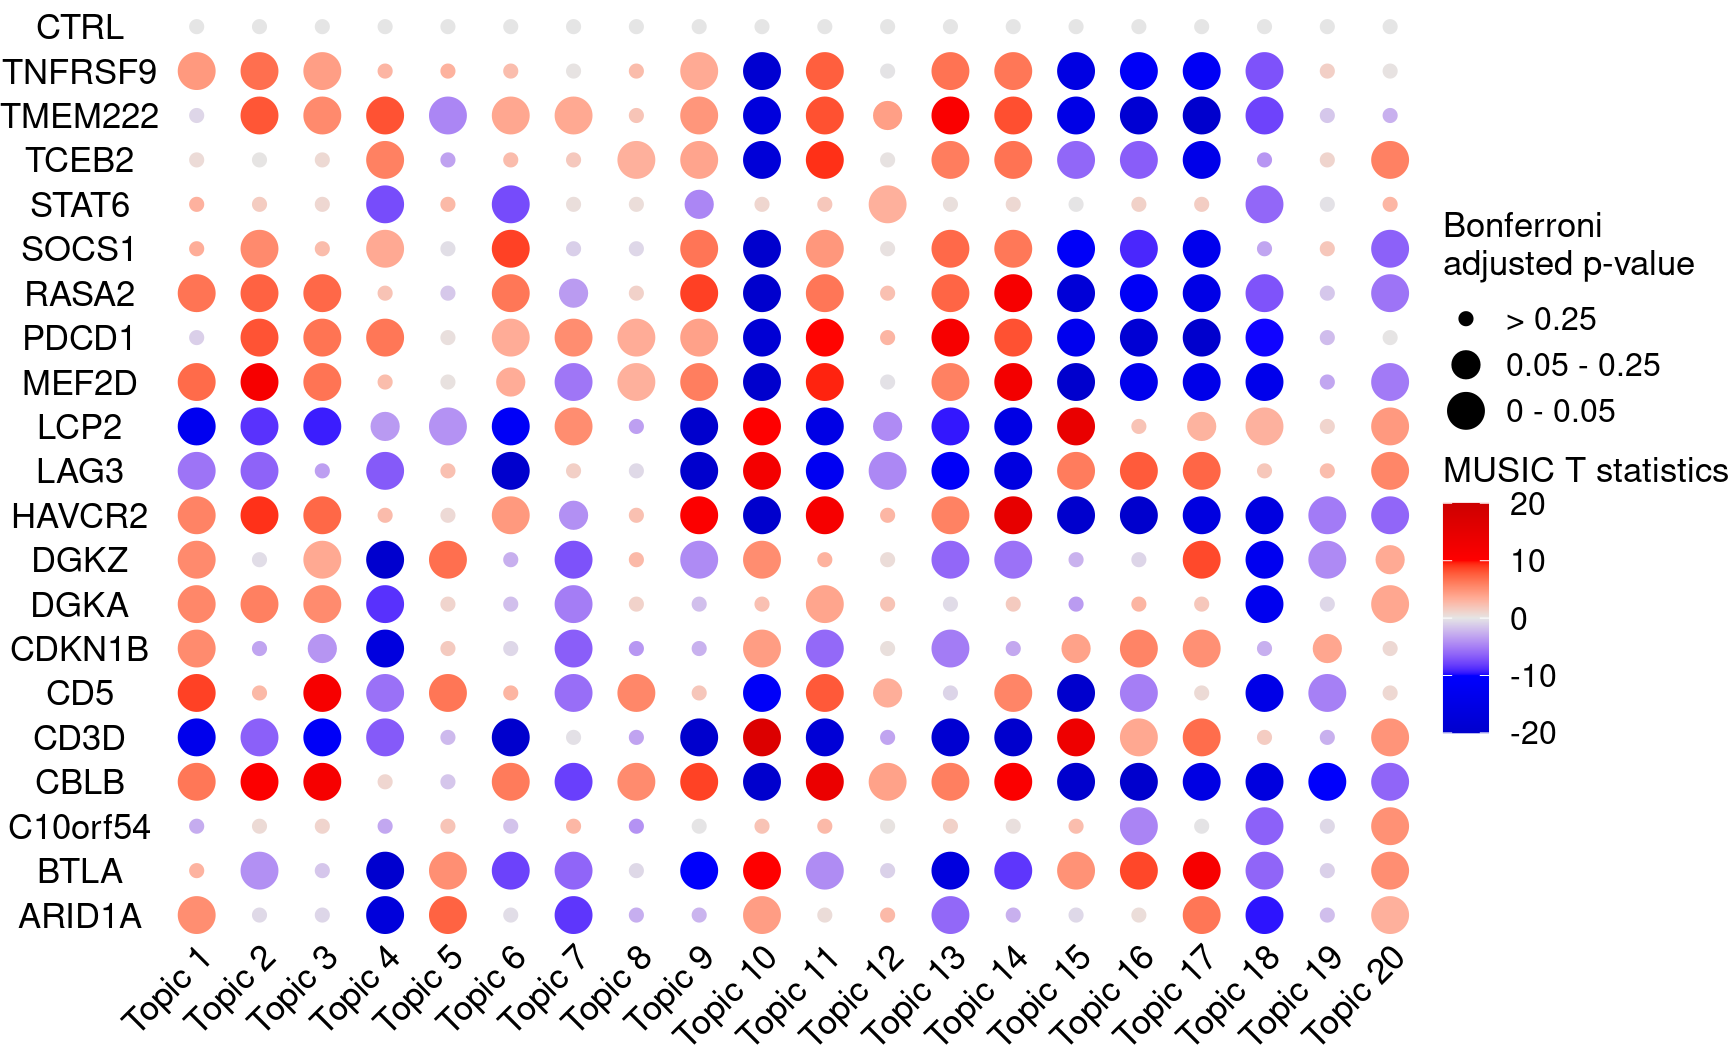
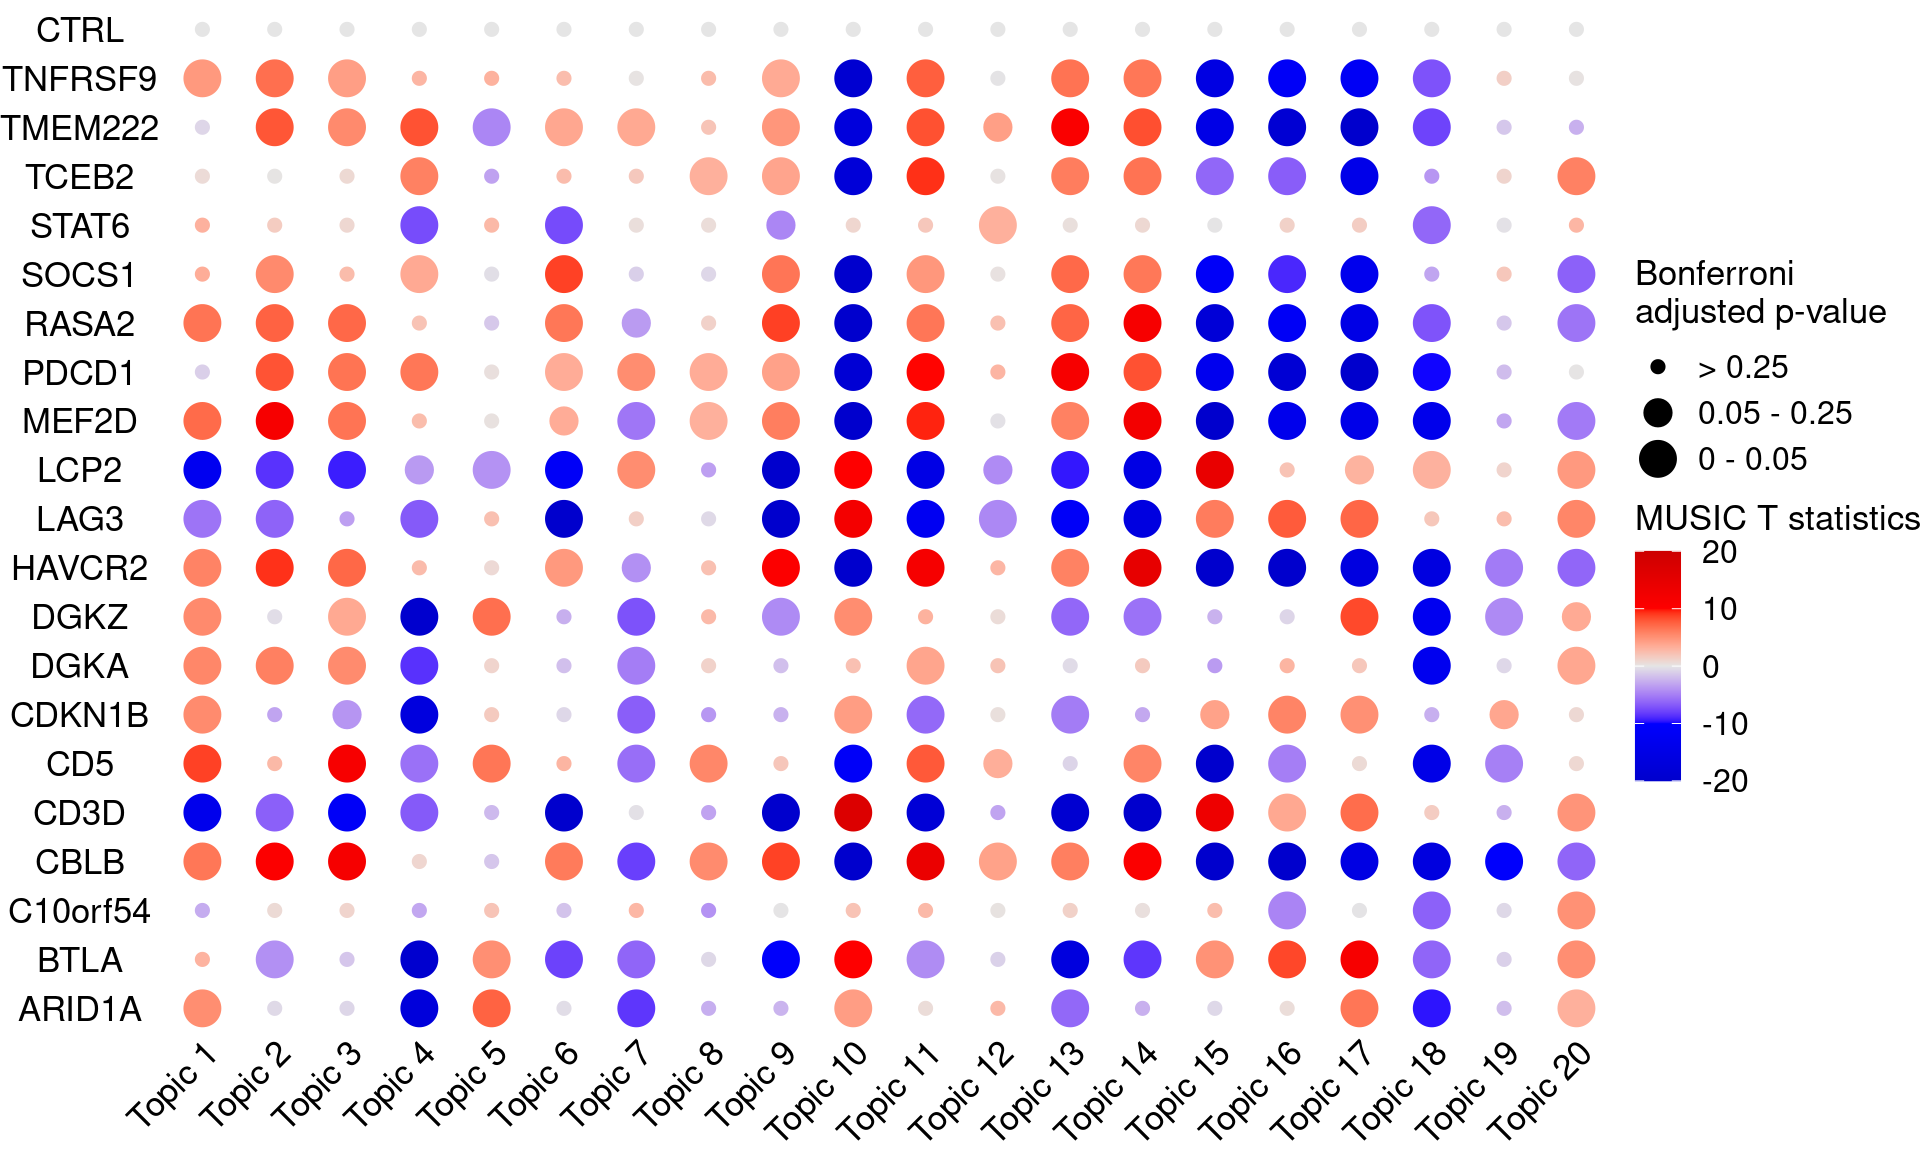
Build site.

Changed region(s): [[0.0, 0.0, 1.0, 1.0], [0.7812, 0.0, 0.8125, 0.0312]]

diff --git a/docs/music_TCells_data.html b/docs/music_TCells_data.html
@@ -529,15 +529,15 @@ project makes it easier to run your code on other machines.</p>
 <div class="panel panel-default">
 <div class="panel-heading">
 <p class="panel-title">
-<a data-toggle="collapse" data-parent="#workflowr-checks" href="#strongRepositoryversionstrongahrefhttpsgithubcomkevinlkxGSFAanalysistree6e34d2c1e76882c70497f5d0b2c86ef021b215datargetblank6e34d2ca">
+<a data-toggle="collapse" data-parent="#workflowr-checks" href="#strongRepositoryversionstrongahrefhttpsgithubcomkevinlkxGSFAanalysistree4a35fbea64af9a29df13d961f40742fe09a171e2targetblank4a35fbea">
 <span class="glyphicon glyphicon-ok text-success"
 aria-hidden="true"></span> <strong>Repository version:</strong>
-<a href="https://github.com/kevinlkx/GSFA-analysis/tree/6e34d2c1e76882c70497f5d0b2c86ef021b215da" target="_blank">6e34d2c</a>
+<a href="https://github.com/kevinlkx/GSFA-analysis/tree/4a35fbea64af9a29df13d961f40742fe09a171e2" target="_blank">4a35fbe</a>
 </a>
 </p>
 </div>
 <div
[2 lines of base64/hex data omitted]
 class="panel-collapse collapse">
 <div class="panel-body">
 <p>
@@ -547,7 +547,7 @@ reproducibility.
 </p>
 <p>
 The results in this page were generated with repository version
-<a href="https://github.com/kevinlkx/GSFA-analysis/tree/6e34d2c1e76882c70497f5d0b2c86ef021b215da" target="_blank">6e34d2c</a>.
+<a href="https://github.com/kevinlkx/GSFA-analysis/tree/4a35fbea64af9a29df13d961f40742fe09a171e2" target="_blank">4a35fbe</a>.
 See the <em>Past versions</em> tab to see a history of the changes made
 to the R Markdown and HTML files.
 </p>
@@ -562,6 +562,7 @@ were generated:
 </p>
 <pre><code>
 Ignored files:
+    Ignored:    .DS_Store
     Ignored:    .Rhistory
     Ignored:    .Rproj.user/
 
@@ -603,6 +604,7 @@ Untracked files:
     Untracked:  code/unguided_GFSA_mixture_normal_prior.cpp
 
 Unstaged changes:
+    Modified:   analysis/music_LUHMES_data.Rmd
     Modified:   analysis/sceptre_TCells_data.Rmd
     Modified:   analysis/twostep_clustering_LUHMES_data.Rmd
     Modified:   code/run_sceptre_LUHMES_data.R
@@ -657,6 +659,40 @@ Message
 </tr>
 </thead>
 <tbody>
+<tr>
+<td>
+Rmd
+</td>
+<td>
+<a href="https://github.com/kevinlkx/GSFA-analysis/blob/4a35fbea64af9a29df13d961f40742fe09a171e2/analysis/music_TCells_data.Rmd" target="_blank">4a35fbe</a>
+</td>
+<td>
+kevinlkx
+</td>
+<td>
+2022-09-20
+</td>
+<td>
+updated dot plots
+</td>
+</tr>
+<tr>
+<td>
+html
+</td>
+<td>
+<a href="https://rawcdn.githack.com/kevinlkx/GSFA-analysis/b9fac2bf483010fdc8d5b287545f6b13ec1a7f3d/docs/music_TCells_data.html" target="_blank">b9fac2b</a>
+</td>
+<td>
+kevinlkx
+</td>
+<td>
+2022-09-20
+</td>
+<td>
+Build site.
+</td>
+</tr>
 <tr>
 <td>
 Rmd
@@ -1365,6 +1401,17 @@ Date
 <tbody>
 <tr>
 <td>
+<a href="https://github.com/kevinlkx/GSFA-analysis/blob/b9fac2bf483010fdc8d5b287545f6b13ec1a7f3d/docs/figure/music_TCells_data.Rmd/empirical_tstats_heatmap_20topics-1.png" target="_blank">b9fac2b</a>
+</td>
+<td>
+kevinlkx
+</td>
+<td>
+2022-09-20
+</td>
+</tr>
+<tr>
+<td>
 <a href="https://github.com/kevinlkx/GSFA-analysis/blob/7102e1bf578a02d3c47a497ff9269f864ce470e1/docs/figure/music_TCells_data.Rmd/empirical_tstats_heatmap_20topics-1.png" target="_blank">7102e1b</a>
 </td>
 <td>
@@ -1391,7 +1438,7 @@ dotplot_effectsize(t(effect_mat), t(fdr_mat),
                    by_score = 10) + 
   coord_flip() +
   theme(axis.text.x = element_text(angle = 45, vjust = 1))</code></pre>
-<p><img src="figure/music_TCells_data.Rmd/effect_fdr_dotplot_20topics-1.png" width="864" style="display: block; margin: auto;" /></p>
+<p><img src="figure/music_TCells_data.Rmd/effect_fdr_dotplot_20topics-1.png" width="960" style="display: block; margin: auto;" /></p>
 <p>
 <button type="button" class="btn btn-default btn-xs btn-workflowr btn-workflowr-fig" data-toggle="collapse" data-target="#fig-effect_fdr_dotplot_20topics-1">
 Past versions of effect_fdr_dotplot_20topics-1.png
@@ -1414,6 +1461,17 @@ Date
 </tr>
 </thead>
 <tbody>
+<tr>
+<td>
+<a href="https://github.com/kevinlkx/GSFA-analysis/blob/b9fac2bf483010fdc8d5b287545f6b13ec1a7f3d/docs/figure/music_TCells_data.Rmd/effect_fdr_dotplot_20topics-1.png" target="_blank">b9fac2b</a>
+</td>
+<td>
+kevinlkx
+</td>
+<td>
+2022-09-20
+</td>
+</tr>
 <tr>
 <td>
 <a href="https://github.com/kevinlkx/GSFA-analysis/blob/b1684a97ed07a1eb422a09c038fa797bb9c60200/docs/figure/music_TCells_data.Rmd/effect_fdr_dotplot_20topics-1.png" target="_blank">b1684a9</a>
@@ -1462,7 +1520,7 @@ dotplot_effectsize(t(effect_mat), t(bonferroni_mat),
                    by_score = 10) + 
   coord_flip() +
   theme(axis.text.x = element_text(angle = 45, vjust = 1, hjust = 1))</code></pre>
-<p><img src="figure/music_TCells_data.Rmd/effect_bonferroni_dotplot_20topics-1.png" width="864" style="display: block; margin: auto;" /></p>
+<p><img src="figure/music_TCells_data.Rmd/effect_bonferroni_dotplot_20topics-1.png" width="960" style="display: block; margin: auto;" /></p>
 <p>
 <button type="button" class="btn btn-default btn-xs btn-workflowr btn-workflowr-fig" data-toggle="collapse" data-target="#fig-effect_bonferroni_dotplot_20topics-1">
 Past versions of effect_bonferroni_dotplot_20topics-1.png
@@ -1485,6 +1543,17 @@ Date
 </tr>
 </thead>
 <tbody>
+<tr>
+<td>
+<a href="https://github.com/kevinlkx/GSFA-analysis/blob/b9fac2bf483010fdc8d5b287545f6b13ec1a7f3d/docs/figure/music_TCells_data.Rmd/effect_bonferroni_dotplot_20topics-1.png" target="_blank">b9fac2b</a>
+</td>
+<td>
+kevinlkx
+</td>
+<td>
+2022-09-20
+</td>
+</tr>
 <tr>
 <td>
 <a href="https://github.com/kevinlkx/GSFA-analysis/blob/b1684a97ed07a1eb422a09c038fa797bb9c60200/docs/figure/music_TCells_data.Rmd/effect_bonferroni_dotplot_20topics-1.png" target="_blank">b1684a9</a>
@@ -1730,6 +1799,17 @@ Date
 <tbody>
 <tr>
 <td>
+<a href="https://github.com/kevinlkx/GSFA-analysis/blob/b9fac2bf483010fdc8d5b287545f6b13ec1a7f3d/docs/figure/music_TCells_data.Rmd/empirical_tstats_heatmap_4topics-1.png" target="_blank">b9fac2b</a>
+</td>
+<td>
+kevinlkx
+</td>
+<td>
+2022-09-20
+</td>
+</tr>
+<tr>
+<td>
 <a href="https://github.com/kevinlkx/GSFA-analysis/blob/7102e1bf578a02d3c47a497ff9269f864ce470e1/docs/figure/music_TCells_data.Rmd/empirical_tstats_heatmap_4topics-1.png" target="_blank">7102e1b</a>
 </td>
 <td>
@@ -1779,6 +1859,17 @@ Date
 </tr>
 </thead>
 <tbody>
+<tr>
+<td>
+<a href="https://github.com/kevinlkx/GSFA-analysis/blob/b9fac2bf483010fdc8d5b287545f6b13ec1a7f3d/docs/figure/music_TCells_data.Rmd/effect_fdr_dotplot_4topics-1.png" target="_blank">b9fac2b</a>
+</td>
+<td>
+kevinlkx
+</td>
+<td>
+2022-09-20
+</td>
+</tr>
 <tr>
 <td>
 <a href="https://github.com/kevinlkx/GSFA-analysis/blob/b1684a97ed07a1eb422a09c038fa797bb9c60200/docs/figure/music_TCells_data.Rmd/effect_fdr_dotplot_4topics-1.png" target="_blank">b1684a9</a>
@@ -1850,6 +1941,17 @@ Date
 </tr>
 </thead>
 <tbody>
+<tr>
+<td>
+<a href="https://github.com/kevinlkx/GSFA-analysis/blob/b9fac2bf483010fdc8d5b287545f6b13ec1a7f3d/docs/figure/music_TCells_data.Rmd/effect_bonferroni_dotplot_4topics-1.png" target="_blank">b9fac2b</a>
+</td>
+<td>
+kevinlkx
+</td>
+<td>
+2022-09-20
+</td>
+</tr>
 <tr>
 <td>
 <a href="https://github.com/kevinlkx/GSFA-analysis/blob/b1684a97ed07a1eb422a09c038fa797bb9c60200/docs/figure/music_TCells_data.Rmd/effect_bonferroni_dotplot_4topics-1.png" target="_blank">b1684a9</a>
